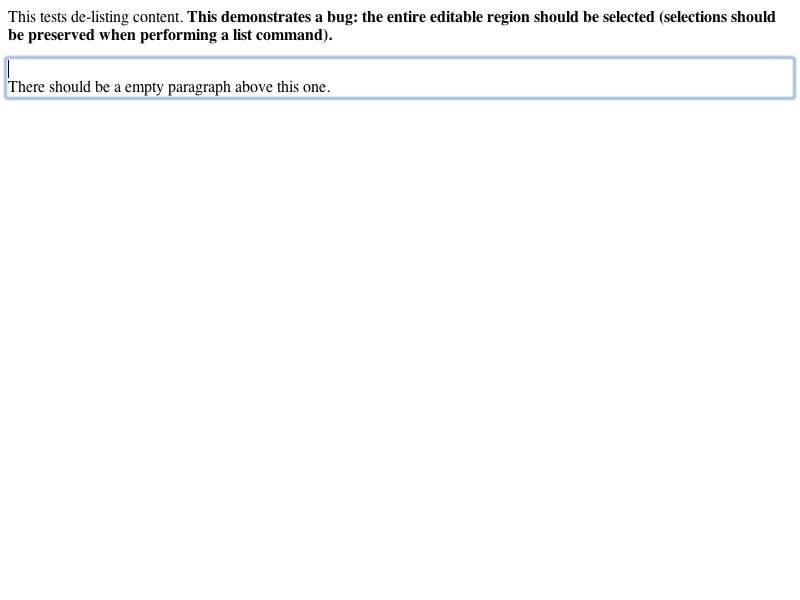
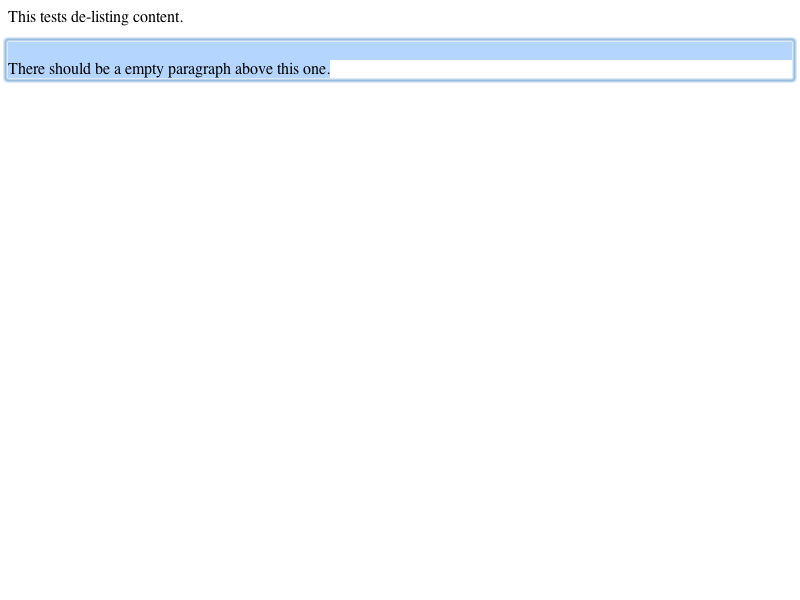
LayoutTests:
Reviewed by john

        <rdar://problem/5012665>
        Removing indent from list moves the caret to the line below

        No new layout tests needed because the new results
        for these tests and the removed FIXMEs cover the bug fix:
        * editing/execCommand/indent-list-item.html:
        * editing/execCommand/indent-list-item-expected.checksum:
        * editing/execCommand/indent-list-item-expected.png:
        * editing/execCommand/indent-list-item-expected.txt:
        * editing/execCommand/remove-list-1.html:
        * editing/execCommand/remove-list-1-expected.checksum:
        * editing/execCommand/remove-list-1-expected.png:
        * editing/execCommand/remove-list-1-expected.txt:

WebCore:

        Reviewed by john
        
        <rdar://problem/5012665>
        Removing indent from list moves the caret to the line below

        Selection preservation during indent, outdent and list 
        operations uses rangeFromLocationAndLength.  Ranges returned 
        by rangeFromLocationAndLength were incorrect for locations 
        just before the line breaks that are emitted after blocks.  
        This is because TextIterator emitted bad ranges for these line 
        breaks (ranges that started and ended *after* the block).  
        The fix corrects the start but not the end.  This is acceptible 
        because there is code in rangeFromLocationAndLength that corrects 
        the ends of runs using the start of the run and VisiblePosition
[…]

Changed region(s): [[0.0, 0.0, 1.0, 0.18]]

diff --git a/editing/execCommand/remove-list-1.html b/editing/execCommand/remove-list-1.html
@@ -2,7 +2,7 @@
 if (window.layoutTestController)
      layoutTestController.dumpEditingCallbacks();
 </script>
-<p>This tests de-listing content. <b>This demonstrates a bug: the entire editable region should be selected (selections should be preserved when performing a list command).</b></p>
+<p>This tests de-listing content.</p>
 <div id="div" contenteditable="true"><ol><li></li><li>There should be a empty paragraph above this one.</li></ol></div>
 
 <script>

diff --git a/editing/execCommand/indent-list-item.html b/editing/execCommand/indent-list-item.html
@@ -2,7 +2,7 @@
 if (window.layoutTestController)
      layoutTestController.dumpEditingCallbacks();
 </script>
-<div id="description">This test uses the execCommand to Outdent the text below. <b>It demonstrates a bug: the caret is one position off after the indent operatio.</b></div>
+<div id="description">This test uses the execCommand to Outdent the text below.</div>
 <br>
 <div contenteditable="true">
 <ul>
